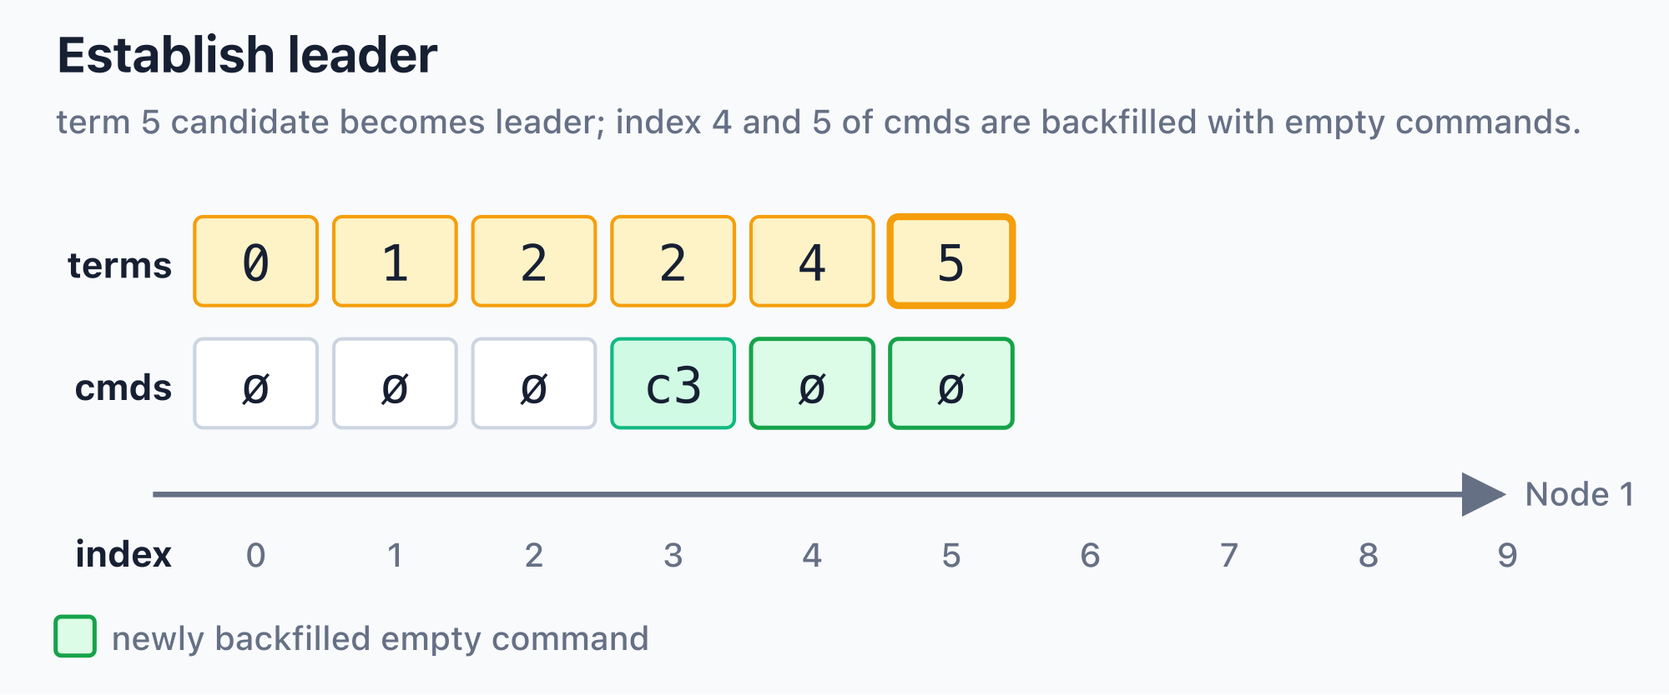
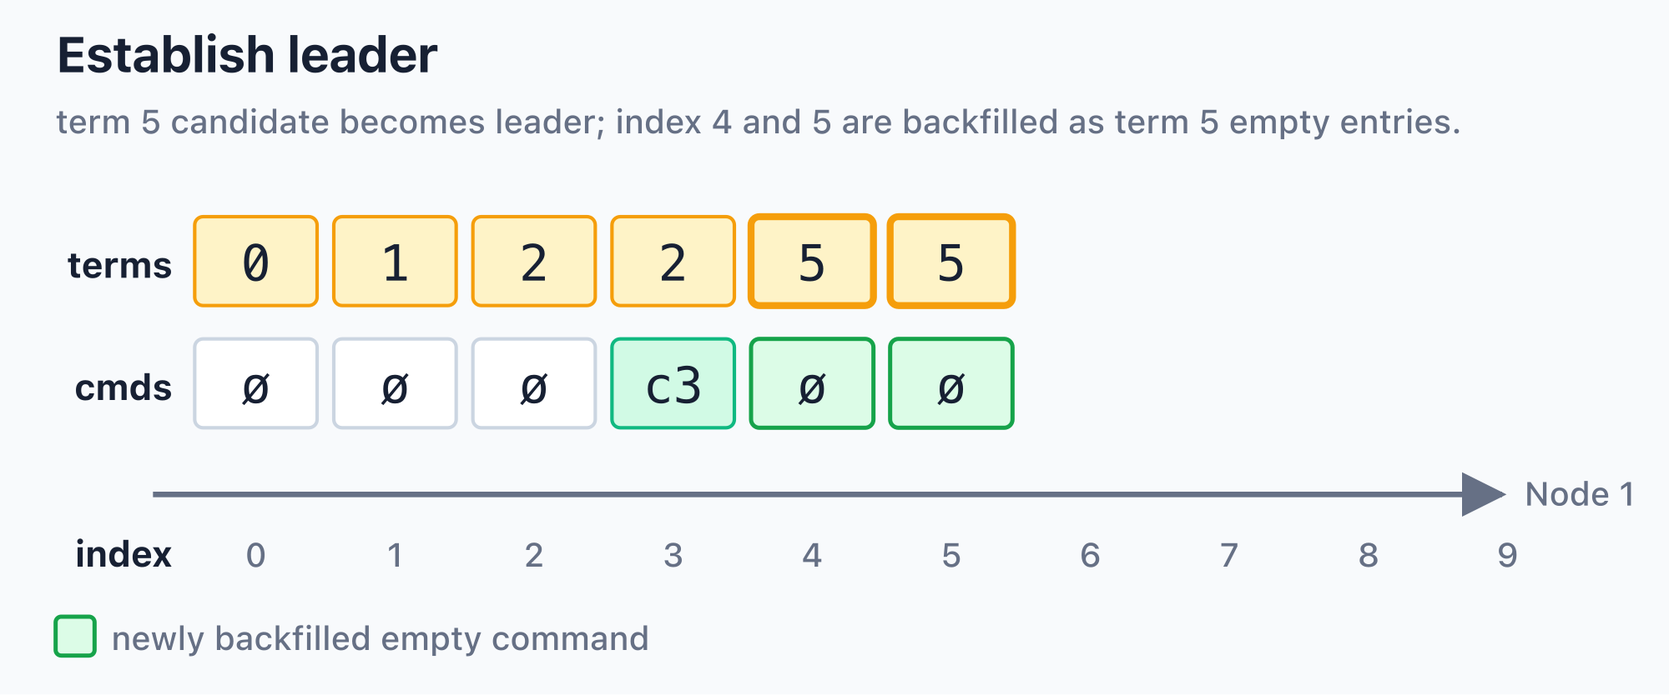
fix: raf-without-term: raf gap term backfill proof

diff --git a/_src/raf-without-term/docs/formal_proof.md b/_src/raf-without-term/docs/formal_proof.md
@@ -1,0 +1,236 @@
+# raf-without-term 形式化安全证明
+
+本文针对 `2026-05-11-raf-without-term-cn.md` 描述的 `raf-without-term` 协议模型，以及 `raf` 源码当前实现，给出一个可审阅的 safety proof 草案。
+
+直接结论：修正后的设计可以继续使用 `(term, index)` 作为 `LogId`。关键点是：失败 election 留下的 slot 在没有 command 时不是 log entry；当某个 established leader 补齐这些 slots 时，必须把这些 slots 的 term 覆盖为自己的 `leader.term`。因此每个完整 log entry 的 term 都重新拥有唯一 established leader 来源，标准 Raft 的 log matching 和 leader completeness 证明可以平移过来。
+
+## 1. 证明范围
+
+证明覆盖：
+
+- 静态 membership 下的 leader election safety。
+- 基于 `prev_log_id` 的 log matching。
+- quorum commit 的 leader completeness。
+- state machine safety，即任意两个节点在同一 index 上提交的 entry 相同。
+- 不单独持久化 `currentTerm` 时，`terms` 与 `cmds` 分离存储的安全性。
+
+证明不覆盖：
+
+- liveness。
+- election timer、heartbeat、automatic election trigger。
+- snapshot、log compaction、membership change。
+- application payload 的持久化语义。当前代码里 `WriteRequest.id` 没有写入 `Cmd`，leader write 追加的是 `Cmd::empty()`。
+- crash 发生在多个 storage 操作中间时的恢复语义。本文把每个已完成的 `Core` 状态转移视为原子完成后的状态。
+
+## 2. 源码对应关系
+
+| 协议概念 | 源码位置 | 证明中使用的语义 |
+|---|---|---|
+| 节点串行状态机 | `Core::run_loop()` | 单节点内所有协议状态转移串行化。 |
+| 发起 election | `Core::do_elect()` | 取 `term = terms_len()`，本地 self-vote，并写入 `terms[term] = term`。 |
+| 处理 vote | `Core::handle_request_vote()` | 要求 `req.term > local_last_term`、`req.term >= local_next_term_slot`，并检查 `last_log_id` freshness；grant 时写入 `terms[req.term] = req.term`，中间 gap 由 storage 按 index 补齐。 |
+| 建立 leader | `Core::establish_leader()` | 达到 quorum 后设置 `established = true`；把 `[cmds_len, terms_len)` 覆盖为 `leader.term`；再追加 empty commands 补齐 `cmds`。 |
+| 发送 replication | `Core::try_initialize_replication()` | 以 `prev_log_id` 为匹配点发送连续的 `terms` 和 `cmds` 窗口。 |
+| 接收 Append | `Core::handle_append()` | 先检查 `prev_log_id`，再截断冲突 suffix，覆盖 `terms`，追加缺失 `cmds`。 |
+| 处理 AppendReply | `Core::handle_append_reply()` | 维护每个 target 的 `matched` 和 `end`，收到更高 term 时退位。 |
+| 推进 commit | `Core::try_update_committed()` | 只考虑 `matched >= leader.term` 的节点，并要求这些节点组成 quorum。 |
+
+## 3. 模型和记号
+
+设节点集合为 `N`，静态 membership 的 quorum 集合为 `Quorum(N)`。任意两个 quorum 必须相交。
+
+每个节点 `n` 的持久化状态是两个有限序列：
+
+- `T_n`：term array，对应源码中的 `terms`。
+- `C_n`：command array，对应源码中的 `cmds`。
+
+index 从 `0` 开始。约定：
+
+- `T_n[0] = 0`。
+- `C_n[0] = empty`。
+- `0 < |C_n| <= |T_n|`。
+- 当且仅当 `i < |C_n|` 时，节点 `n` 在 index `i` 有完整 log entry。
+- `log_id_n(i) = (T_n[i], i)`。
+- `last_log_id(n) = log_id_n(|C_n| - 1)`。
+
+`LogId` 使用字典序比较：先比较 `term`，再比较 `index`。这与源码中 `LogId` 派生的 `Ord` 一致。
+
+重要区分：
+
+- `i >= |C_n|` 且 `i < |T_n|` 的位置只是 election marker，不是 log entry。
+- election marker 可以记录为 `T_n[i] = i`，用于表示节点已经观察到这个 term slot。
+- 当 leader `t` established 后，它会把本地 `[|C|, |T|)` 中的 election markers 改写为 `t`，再补 empty commands。这些位置从此成为 leader `t` 产生的完整 empty log entries。
+
+因此，`T[i] <= i` 不是协议不变量。修正后的核心不变量是：每个非零完整 log entry 的 term 都对应唯一 established leader。
+
+## 4. 证明义务
+
+**P0：Quorum 相交。** `Membership` 中 node id 唯一，所有用于投票和 commit 的节点集合都是 membership 的子集。任意两个多数 quorum 相交。
+
+**P1：单节点状态转移串行化。** 一个节点的 `RequestVote`、`Append`、`AppendReply`、`Write` 等事件由同一个 `Core` 顺序处理，不存在本地并发写坏协议状态。
+
+**P2：存储 well-formed。** 任意可达稳定状态都满足 `T[0] = 0`、`C[0] = empty`、`0 < |C| <= |T|`。
+
+**P3：term slot 唯一占用。** candidate 选择 `t = |T|` 发起 election 时，写入 `T[t] = t`。voter grant `req.term = t` 时，必须让本地 `T` 至少包含 index `t`，并写入 `T[t] = t`。
+
+**P4：同一 term 单次授权。** 对任意节点 `v` 和任意 term `t`，`v` 最多向一个 candidate grant `t`。当前最保守的实现规则是：一旦本地已经观察到 `t`，就不再 grant `t`。这里的“观察到”包括 `terms[t]` slot 已存在，也包括本地最后一条完整 log entry 已经带有 term `t`。
+
+**P5：投票 freshness。** voter 只在 `req.last_log_id >= local_last_log_id` 时 grant vote。
+
+**P6：leader established 后覆盖 gap terms。** candidate 收到 quorum vote 后，必须在服务写入前把本地 `[cmds_len, terms_len)` 的 terms 覆盖成自己的 `leader.term`，再用 empty commands 补齐 `cmds`。
+
+**P7：Append 只复制 leader 的完整 log。** `AppendRequest.terms.len() == AppendRequest.cmds.len()`，窗口从 `prev_log_id.index + 1` 开始，并且每个 entry 都来自 leader 本地完整 log。
+
+**P8：Append 前缀匹配。** follower 只有在本地存在 `prev_log_id.index` 且本地 `log_id(prev_log_id.index) == prev_log_id` 时，才接受后续 entries。否则不修改 log。
+
+**P9：冲突 suffix 可被覆盖，匹配 prefix 不变。** Append 被接受后，follower 只允许从第一个分歧 index 开始截断或覆盖；`prev_log_id.index` 及之前的 prefix 不变。
+
+**P10：commit 只直接提交 leader election index 之后的 entry。** leader 只有在某个 index `i` 被 quorum matched，且 `i >= leader.term` 时，才把 `committed` 推进到 `i` 或更大。被补齐在 `leader.term` 之前的 empty entries 只能被间接提交。
+
+## 5. 基础不变量
+
+### I1：存储形状不变量
+
+任意可达稳定状态都满足 `0 < |C| <= |T|`。
+
+证明：
+
+- 初始 `MemStorage::new()` 创建 `T = [0]` 和 `C = [empty]`。
+- election 只追加或覆盖 `T`，不会让 `C` 变长。
+- established leader 先覆盖 `[|C|, |T|)` 的 terms，再追加同样数量的 empty commands，因此补齐后 `|C| = |T|`。
+- leader write 在 `T[|C|]` 写入 `leader.term`，再追加一个 command。
+- Append 接受时先覆盖 `T` 的请求窗口，再只追加缺失的 `C`；若发现分歧，先截断 `C` 到分歧 index，再追加 leader suffix。
+
+### I2：完整 entry 的 leader provenance
+
+对任意非零完整 log entry `i < |C|`，`T[i] = t` 意味着该 entry 由唯一 established leader `t` 创建，或由这个 leader 复制到该节点。
+
+证明：
+
+- candidate 发起 election 时写入的 `T[t] = t` 在 `C[t]` 存在之前只是 election marker，不是完整 log entry。
+- candidate established 后，`establish_leader()` 把 `[|C|, |T|)` 统一改写为 `leader.term`，再补 empty commands。因此这些新完成的 entries 都由这个 established leader 创建。
+- leader 后续 write 也只写入当前 `leader.term`。
+- follower 只能通过接受该 leader 的 Append 获得这些完整 entries。
+- 由 I3，同一个 term 不会有两个 established leaders，所以 provenance 唯一。
+
+### I3：同一 term 至多一个 established leader
+
+一个 term `t` 至多被一个 established leader 拥有。
+
+证明：
+
+- 任意 established leader 都必须得到一个 quorum 的 grants。
+- 假设 term `t` 有两个不同 established leaders `L1` 和 `L2`。
+- 设它们获得的 quorum 分别为 `Q1` 和 `Q2`。
+- 由 quorum intersection，存在节点 `v` 同时属于 `Q1` 和 `Q2`。
+- `v` 必须分别 grant `t` 给 `L1` 和 `L2`。
+- 这违反 P4。
+
+因此同一 term 不可能存在两个 established leaders。
+
+## 6. Log Matching
+
+**定理 T1：如果两个节点在同一 index `i` 上具有相同 `log_id = (t, i)`，则它们在 `i` 及之前的完整 log prefix 相同。**
+
+证明按 `i` 归纳。
+
+index `0` 是固定默认 entry，显然成立。
+
+对 `i > 0`：
+
+- 由 I2，完整 entry `(t, i)` 由唯一 established leader `t` 创建。
+- leader `t` 在自己的本地 log 中，index `i` 只有一个 entry。
+- 其它节点获得 `(t, i)` 的唯一方式是接受 leader `t` 或后继合法 leader 的 Append。
+- Append 由 P8 要求 `prev_log_id` 匹配；由归纳假设，`prev_log_id.index` 及之前的 prefix 已相同。
+- P9 保证接受 Append 时不会修改已匹配 prefix。
+
+因此两个节点如果在 index `i` 有同一 `LogId`，它们在 `i` 及之前的完整 prefix 相同。
+
+这里的关键修正是 P6：失败 election marker 在成为完整 entry 前会被 established leader 的 term 覆盖。因此完整 entry 不会保留“没有 leader owner 的 failed term”作为自己的 `LogId`。
+
+## 7. Leader Completeness
+
+**定理 T2：如果 entry `e` 在 index `i` 被 term `t` 的 leader 提交，则所有 term `u > t` 的 established leader 都包含 `e`。**
+
+证明：
+
+1. leader 只直接提交 `i >= t` 的 entry。因此 `e` 是 term `t` leader 在自己 election index 或之后创建并复制到 quorum 的 entry。
+
+2. 设提交 `e` 的 quorum 为 `Qc`。每个 `Qc` 中的节点都 matched 至少到 `i`。
+
+3. 假设存在最小的 `u > t`，使 term `u` 的 established leader `Lu` 不包含 `e`。
+
+4. `Lu` 必须从某个 quorum `Qv` 获得 vote。由 quorum intersection，存在节点 `v` 同时属于 `Qc` 和 `Qv`。
+
+5. `v` 在 `Qc` 中 matched 到 `i`，所以曾经拥有包含 `e` 的 prefix。由于 `u` 是第一个不包含 `e` 的 established leader term，在 `v` 给 `Lu` 投票前，不存在更早的合法 leader 可以覆盖 `e`。因此 `v` 投票时仍包含 `e`。
+
+6. `v` 只会在 `Lu.last_log_id >= v.last_log_id` 时 grant vote。下面分情况说明如果 `Lu` 不包含 `e`，这个 freshness 条件不可能成立：
+
+   - 如果 `Lu.last_log_id.term < t`，它落后于 `v` 中包含 `e` 的 log。
+   - 如果 `Lu.last_log_id.term == t`，但 `Lu` 不包含 index `i` 的 `e`，则 `Lu.last_log_id.index < i`，仍落后。
+   - 如果 `Lu.last_log_id.term > t`，这个更高 term 的完整 entry 由某个 established leader `w` 创建。由于 `u` 是第一个不包含 `e` 的 established leader term，`w` 必须包含 `e`；再由 T1，拥有 `w` 的后续 entry 也必须拥有包含 `e` 的 prefix。因此 `Lu` 不可能拥有该更高 term entry 却缺少 `e`。
+
+7. 所以 `v` 不可能 grant vote 给不包含 `e` 的 `Lu`，与 `Lu` established 矛盾。
+
+因此所有更高 term 的 established leader 都包含已提交 entry `e`。
+
+## 8. Commit Safety
+
+**定理 T3：一旦某个 entry `e` 在 index `i` 被提交，未来任何合法 Append 都不能在任何节点上把 index `i` 覆盖成不同 entry 并再次提交。**
+
+证明：
+
+- 由 T2，所有未来 established leader 都包含 `e`。
+- leader 发送 Append 时，请求窗口来自自己的完整 log，因此未来 leader 在 index `i` 发送的 entry 只能是 `e`。
+- follower 接受 Append 前必须匹配 `prev_log_id`。若 follower 已包含 `e` 之前的 prefix，Append 不会把已提交 prefix 改成另一个 entry。
+- 若 follower 暂时缺少 `e`，它只能通过包含 `e` 的合法 leader Append 获得 index `i`。
+
+所以 index `i` 上的已提交 entry 在所有未来合法历史中保持不变。
+
+**定理 T4：State Machine Safety。若两个节点分别提交了 index `i` 的 entry，则这两个 entry 相同。**
+
+证明：
+
+- 取两个提交事件中较早发生的一个，提交 entry 为 `e`。
+- 由 T3，之后任何合法提交 index `i` 的 entry 都只能是 `e`。
+- 因此两个节点在同一 index 上提交的 entry 相同。
+
+## 9. 为什么仍然使用 `index >= leader.term`
+
+修正后的设计会把更早的 gap slots 覆盖成当前 `leader.term`，所以可能出现 `T[i] = leader.term` 且 `i < leader.term` 的 empty entry。
+
+这些 entries 不应被 leader 直接用于推进 commit。原因是：quorum matched 到 `i < leader.term` 并不能证明 quorum 已经匹配到 leader 当选时占用的 election index。`raf` 因此仍然使用更保守的提交门槛：
+
+```rust
+if quorum_has_matched(index) && index >= leader.term {
+    commit(index);
+}
+```
+
+一旦 leader 提交了 `leader.term` 或之后的 entry，它当选时占用的 entry 也已经在同一个 committed prefix 中；更早 backfilled empty entries 会随这个 prefix 一起间接提交。
+
+## 10. 当前实现边界
+
+以下是实现边界，不是本文 safety proof 的反例：
+
+- `RequestVote` retry 仍然偏保守。当前没有持久化 `voted_for`，同一个 term 已经被观察后，重复请求会被拒绝。可以用 in-memory `voted_for` 改善可用性。
+- `Core::handle_append()` 中 `append.term > last_term` 分支仍是 `TODO`。在当前没有 heartbeat 的最小实现里，非空 Append 会通过 entries 更新 `terms`；如果以后加入空 heartbeat，需要明确记录 observed term 的规则。
+- follower commit 推进是保守的：当前只有 `append.commit_index < appended_last_index` 时才推进 follower commit。这可能推迟 follower 可见 commit，但不破坏 safety。
+- `Membership::is_quorum()` 假设输入节点已经去重且属于 membership。当前主要调用点通过 `HashSet` 和 `BTreeMap` 满足这个前提；形式化模型仍需显式保留 P0。
+
+## 11. 建议验证用例
+
+建议实现或保留以下测试：
+
+- `request_vote_fills_gap_to_requested_term`：voter 从 `terms.len() = 4` grant `req.term = 6` 后，`terms.len() = 7`，且 `terms[6] = 6`。
+- `request_vote_rejects_repeated_gapped_term`：同一个落后 voter grant `term = 6` 一次后，第二个 candidate 请求同一 term 必须被拒绝。
+- `request_vote_rejects_observed_term_without_term_slot`：本地完整 log 已经观察到 term `6`，即使 `terms[6]` slot 尚不存在，也必须拒绝 `req.term = 6`。
+- `establish_leader_overwrites_gap_terms_with_leader_term`：leader term `6` established 后，原来 `[4, 5]` 的 gap terms 被覆盖成 `[6, 6]`，并追加 empty commands。
+- `same_term_two_candidates_cannot_both_establish`：三节点场景中两个 candidate 选择同一 gapped term，不能同时 established。
+- `committed_current_term_entry_survives_later_leader`：一个 leader 提交 `index >= leader.term` 后，后续更高 term leader 必须包含该 index 的 entry。
+
+## 12. 总结
+
+`raf-without-term` 的安全核心不是“没有 term”，而是“不再单独持久化 `currentTerm`”。term 仍然存在，并且完整 log entry 仍然用 `(term, index)` 比较新旧。
+
+修正后的 gap completion 规则消除了之前的歧义：失败 election 留下的 term slot 在没有 command 时不是 log entry；一旦它被补成完整 entry，它的 term 会被 established leader 覆盖。于是完整 entry 的 `LogId` 又能指向唯一 leader 历史，log matching 和 leader completeness 可以按 Raft 的标准结构成立。

diff --git a/_src/raf-without-term/2026-05-11-raf-without-term.md b/_src/raf-without-term/2026-05-11-raf-without-term.md
@@ -95,8 +95,8 @@ Index by index, this state means:
 - Index `1`: a successful election for term `1`. The leader reserved index `1` when it was elected and wrote its first empty command there.
 - Index `2`: a successful election for term `2`. The new leader reserved index `2`; its first log entry is also an empty command.
 - Index `3`: a user log entry `C3` written by the leader of term `2`, so `terms[3] = 2` and `cmds[3] = C3`.
-- Index `4`: an election attempt for term `4`, but it did not produce an established leader. Later, when the leader of term `6` was established, this position was filled with an empty command so `cmds` could catch up with `terms`.
-- Index `5`: another failed election attempt for term `5`. It was also later filled with an empty command.
+- Index `4`: this position used to be an election attempt for term `4`, but it did not produce an established leader. Later, when the leader of term `6` was established, this position was filled as an empty command owned by term `6`, so now `terms[4] = 6`.
+- Index `5`: this position used to be another failed election attempt for term `5`. It was also later filled as an empty command owned by term `6`, so now `terms[5] = 6`.
 - Index `6`: a successful election for term `6`. The leader reserved index `6` when it was elected, and wrote its first empty command there.
 - Index `7`: a user log entry `C7` written by the leader of term `6`, so `terms[7] = 6` and `cmds[7] = C7`.
 - Index `8`: a new election attempt for term `8`. So far we have only seen `terms[8] = 8`; there is no command for this index yet, so it is not a complete log entry.
@@ -122,14 +122,15 @@ log_id     = (terms[index], index)
 
 _`terms` and `cmds` share the same log index. During election, `terms` may be ahead of `cmds`._
 
-During an election, `terms` can temporarily be longer than `cmds`. A candidate first reserves an index as its term. Multiple failed elections may reserve multiple indexes. Only after a candidate becomes an established leader does it fill `cmds` up to that term index with empty commands.
+During an election, `terms` can temporarily be longer than `cmds`. A candidate first reserves an index as its term. Multiple failed elections may reserve multiple indexes. Only after some candidate becomes an established leader are the positions with missing commands filled with empty commands.
 
-So this implementation maintains two basic invariants:
+So this implementation maintains a few basic facts:
 
 - `cmds` should never be longer than `terms`.
-- For every index `i`, `i >= terms[i]` should hold.
+- When an election first reserves a term slot, `terms[term] = term`.
+- When an established leader fills positions that still miss commands, those positions are rewritten to the current `leader.term`.
 
-The second invariant follows from the design itself. A term is created from a log index. After the corresponding leader is established, every entry it appends is at an index greater than or equal to that term, and `terms` stores that same term for those entries. Therefore every value stored in `terms` is less than or equal to its index.
+Therefore `terms[i] <= i` is not a protocol invariant. A backfilled empty entry may have `terms[i] > i`. That is not a problem by itself; standard Raft terms can also be greater than log indexes. The important property is different: every complete log entry must carry the term of an established leader, except for the fixed default entry at index `0`.
 
 ## Why Split `terms` and `cmds`
 
@@ -179,14 +180,15 @@ If the election for term `4` does not reach a quorum, it leaves only an observed
 
 ![Leader election retry term=5](assets/leader-election-term5.png)
 
-At this point `last_log_id` is still `(2, 3)`, because `cmds` has not moved beyond index `3`. What changed is the candidate term: it advanced from `4` to `5`. Only after an election succeeds and a leader is established does the system fill `cmds` up to that term index with empty commands.
+At this point `last_log_id` is still `(2, 3)`, because `cmds` has not moved beyond index `3`. What changed is the candidate term: it advanced from `4` to `5`. Only after an election succeeds and a leader is established does the system rewrite the positions with missing commands to this leader's term and fill `cmds` with empty commands.
 
 ## How a Voter Handles RequestVote
 
-When a voter receives `RequestVote`, it checks two things:
+When a voter receives `RequestVote`, it checks three things:
 
-1. Whether the requested term is new enough. In this design, that means checking whether the term, interpreted as a log index, does not already exist locally.
-2. Whether the candidate's log, represented by `last_log_id`, is fresh enough. It must not be older than the voter's own log.
+1. Whether the requested term is greater than the last term observed locally.
+2. Whether the requested term slot does not already exist locally.
+3. Whether the candidate's log, represented by `last_log_id`, is fresh enough. It must not be older than the voter's own log.
 
 Aside from the term check, the rest of the logic is standard Raft. The subtle difference is that the term is no longer stored independently, so term freshness is expressed through `terms`.
 
@@ -195,9 +197,11 @@ The core condition looks like this:
 ```rust
 let local_last_log_index = cmds.len() - 1;
 let local_last_log_id = (terms[local_last_log_index], local_last_log_index);
+let local_last_term = terms[terms.len() - 1];
 
 let can_vote =
-    req.term >= terms.len()
+    req.term > local_last_term
+        && req.term >= terms.len()
         && req.last_log_id >= local_last_log_id;
 ```
 
@@ -209,8 +213,8 @@ The next diagram sends the same `RequestVote { term: 5, last_log_id: (2, 3) }` t
 
 The three outcomes are:
 
-- `granted`: the voter's `terms` reaches only index `3`, and `cmds` also reaches only index `3`. Therefore `req.term = 5` is a new term index that has not appeared locally, and `req.last_log_id = (2, 3)` is not behind the voter. The vote can be granted.
-- `rejected: term=7`: the voter has already observed a later term index `7`. Since `req.term = 5 < terms.len()`, the candidate's requested term is stale from this voter's perspective, so the vote is rejected.
+- `granted`: the voter's `terms` reaches only index `3`, and `cmds` also reaches only index `3`. Therefore `req.term = 5` is greater than the last locally observed term, names a term slot that has not appeared locally, and `req.last_log_id = (2, 3)` is not behind the voter. The vote can be granted.
+- `rejected: term=7`: the voter has already observed a later term `7`. Since `req.term = 5` is not greater than the last locally observed term, the candidate's requested term is stale from this voter's perspective, so the vote is rejected.
 - `rejected: last log id = (4,4)`: the voter's last complete log entry is `(4, 4)`, which is newer than the candidate's `(2, 3)`. Even if the requested term could be recorded, the log freshness check still fails, so the vote is rejected.
 
 If the request is valid, the voter records the term in local `terms`. If local `terms` is shorter than `req.term`, it fills the missing positions with default indexes until local state contains index `req.term`:
@@ -224,13 +228,13 @@ if can_vote {
 }
 ```
 
-These default items have term values equal to their own indexes. That preserves `i >= terms[i]`. They mean the node has observed the corresponding term indexes. They do not mean those indexes are complete log entries, because the matching `cmds` may not exist yet. On the final iteration, `index == req.term`, so the voter has observed and accepted that term. Later, it will not accept an older term or a term index that already exists locally.
+These default items have term values equal to their own indexes. They mean the node has observed the corresponding term indexes. They do not mean those indexes are complete log entries, because the matching `cmds` may not exist yet. If a later leader fills those positions as complete empty entries, it rewrites their terms to its own `leader.term`. On the final iteration, `index == req.term`, so the voter has observed and accepted that term. Later, it will not accept an older term or a term index that already exists locally.
 
 This replaces the role of standard Raft's persisted `currentTerm`, but it is not fully equivalent to standard Raft's `votedFor`. The current implementation does not persist "which candidate this term was granted to." As a result, RequestVote retry and restart behavior are more conservative. We will return to this trade-off in "Current Boundaries."
 
 _The candidate chooses `terms.len()` as its term. Other nodes record that term in their local `terms` when they grant the vote._
 
-After the candidate receives granted replies from a quorum, it becomes an established leader. It then appends one empty command so that `cmds.len()` catches up with `terms.len()`. That log entry corresponds to the index the leader reserved during election.
+After the candidate receives granted replies from a quorum, it becomes an established leader. It first rewrites the local `cmds.len()..terms.len()` range to its own `leader.term`, then appends empty commands so that `cmds.len()` catches up with `terms.len()`. The index reserved by the leader's election becomes this leader's first complete log entry.
 
 ## Establishing Leader State
 
@@ -260,13 +264,13 @@ The important fields are:
 > This makes commit calculation uniform:
 > look at which nodes have `matched` covering an index, then check whether those nodes form a quorum.
 
-After the leader is established, every position that already exists in local `terms` but is still missing from `cmds` is filled with an empty command. After that, every local index on the leader has a corresponding command, and new application writes can start at the next index.
+After the leader is established, every position that already exists in local `terms` but is still missing from `cmds` is taken over by the current leader: the term at that position is rewritten to `leader.term`, and the command is filled with an empty command. After that, every local index on the leader has a corresponding command, and new application writes can start at the next index.
 
 <!-- [ASCII source](assets/establish-leader.txt) -->
 
 ![Establish leader](assets/establish-leader.png)
 
-In this example, term `4` is the term index left behind by a previous failed election, and term `5` is the index reserved by the current leader. When the candidate for term `5` becomes an established leader, indexes `4` and `5` are both filled with `ø`. The `ø` at index `5` is this leader's first log entry.
+In this example, index `4` used to be a term slot left behind by a failed election, and term `5` is the index reserved by the current leader. When the candidate for term `5` becomes an established leader, indexes `4` and `5` are both rewritten as term `5` empty log entries. The `ø` at index `5` is the entry reserved by this leader's election; the `ø` at index `4` is the backfilled entry that keeps the log prefix contiguous.
 
 ## Appending a Log Entry
 
@@ -325,7 +329,7 @@ This is still Raft's core replication model: the leader finds a shared log prefi
 
 Replication to a quorum does not mean every historical entry can be committed immediately. Standard Raft has an important rule: a leader may only directly commit log entries from its own current term. Entries from older terms become committed only as a consequence of committing an entry from the current term.
 
-`raf` keeps this rule. Since the current leader's log starts at the index it reserved during election, the leader only considers matched indexes in the current leader's term range when calculating commit.
+`raf` keeps this rule. Although an established leader rewrites earlier gap slots to its own term, the leader still only directly commits matched indexes that are not smaller than its election index. Empty entries backfilled before `leader.term` are committed only indirectly, together with the leader's election index or a later entry.
 
 Intuitively:
 
@@ -397,9 +401,7 @@ struct RafStorage {
 }
 ```
 
-During election, a candidate chooses `terms.len()` as its term. After it becomes leader, later log entries all use that term. Replication and commitment still follow the basic Raft rules.
-
-This design also has a small side benefit: failed elections leave their term indexes in `terms`. They do not automatically become complete log entries, but they do make observed election attempts visible. That can be useful when debugging leader churn, frequent elections, or network partitions.
+During election, a candidate chooses `terms.len()` as its term. After it becomes leader, both the missing-command gap slots and later log entries use this leader term. Replication and commitment still follow the basic Raft rules.
 
 That is the core of this experimental implementation: keep Raft's logical time model, but change where that logical time comes from in persistent state.
 
